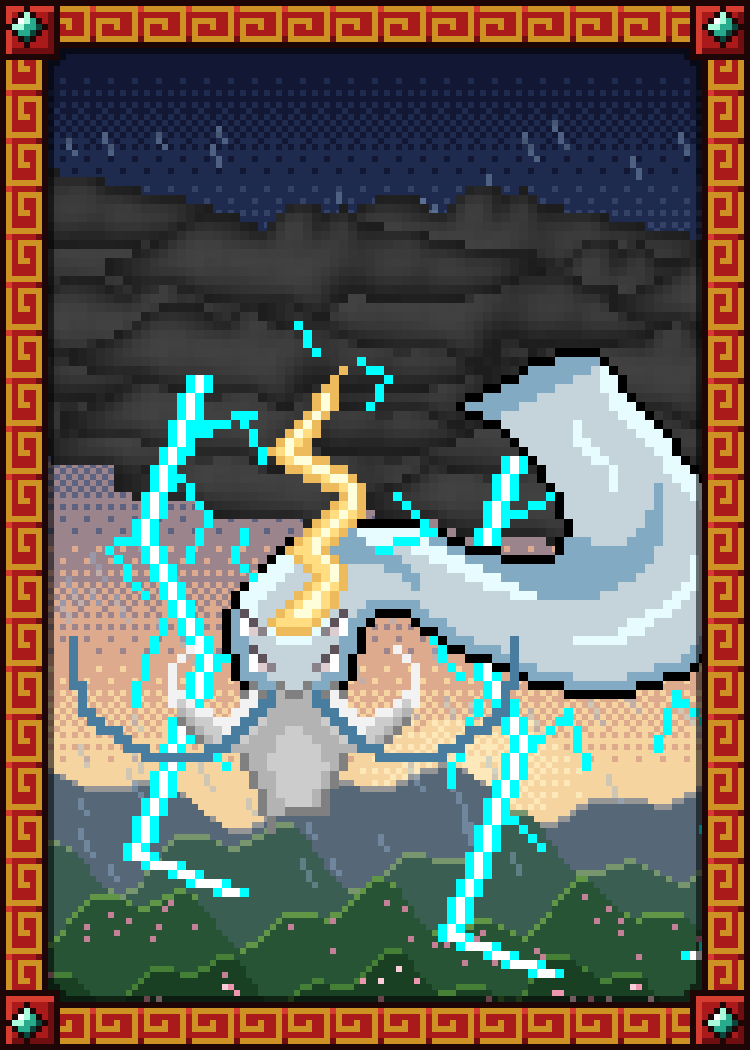
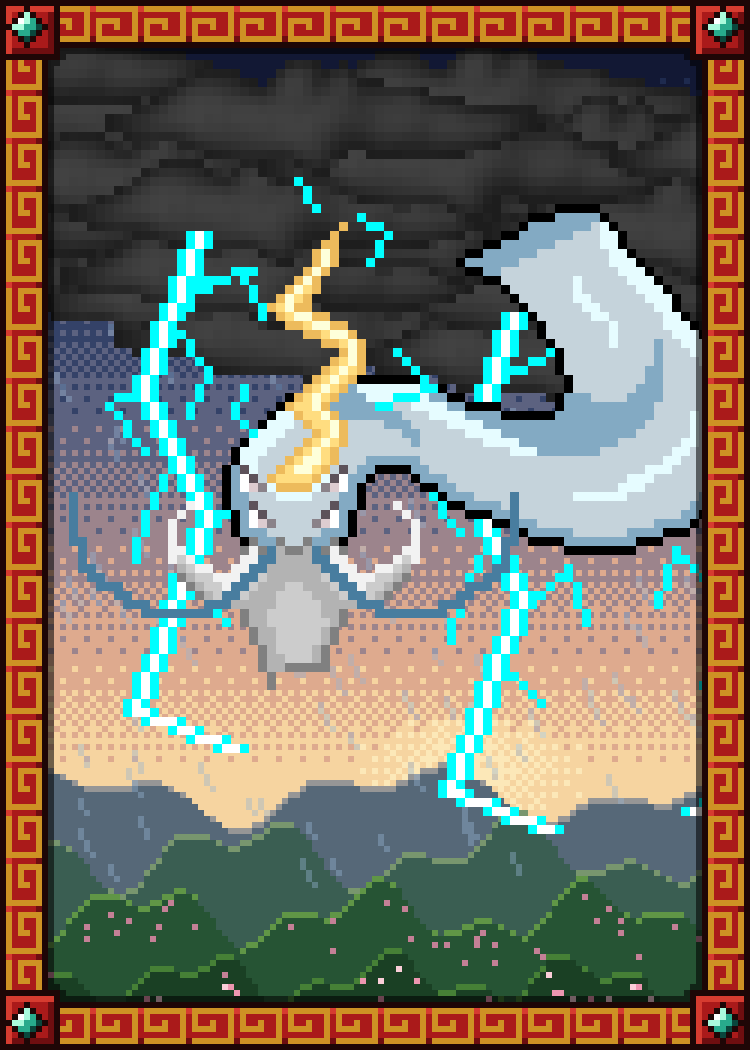
Spring Thunder: Qinglong höher gesetzt
Drache samt Wolke, Horn und Blitzen um 16 Rasterpixel (48 px) nach oben,
damit er nicht mehr zu tief im Bild hängt.

Claude-Session: https://claude.ai/code/session_01TEnvTzH2xD44R6Unjv7vDo

diff --git a/data/sleeve-proposals/runde4/generator/s51_spring_thunder.py b/data/sleeve-proposals/runde4/generator/s51_spring_thunder.py
@@ -74,7 +74,7 @@ def put(s, x, y):
 drag = sprite('r4q_qinglong', B, [1521, 1522, 1526])   # Ursprung (230, 247) in Motive
 bolts = sprite('r4q_bolts', B, [1525])                  # Ursprung (234, 253)
 cloud = sprite('r4q_cloud', B, [1527])                  # Ursprung (218, 234)
-DX, DY = 8, 36                                          # Lage des Drachen (Ursprung 230,247) im 3×-Raster
+DX, DY = 8, 20                                          # Lage des Drachen (Ursprung 230,247) im 3×-Raster
 # Wolke hinten, quer über den oberen Rand (zweimal gesetzt, damit die Wolkendecke die Breite füllt)
 put(cloud, -40, DY - 13 - 6)
 put(cloud, DX - 12, DY - 13)
